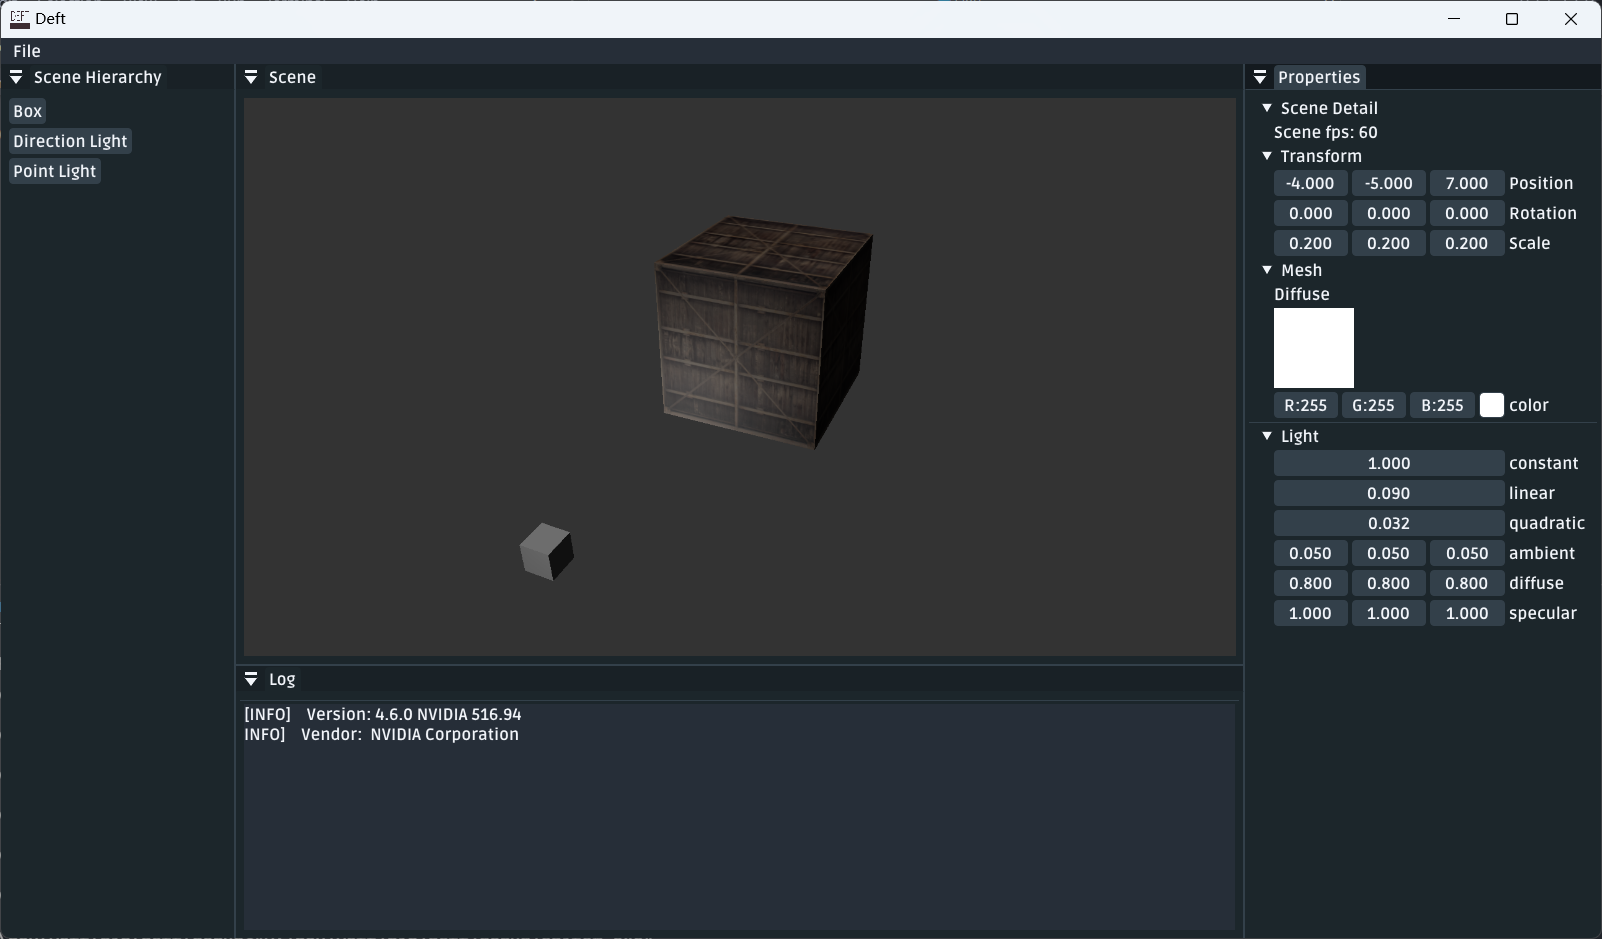
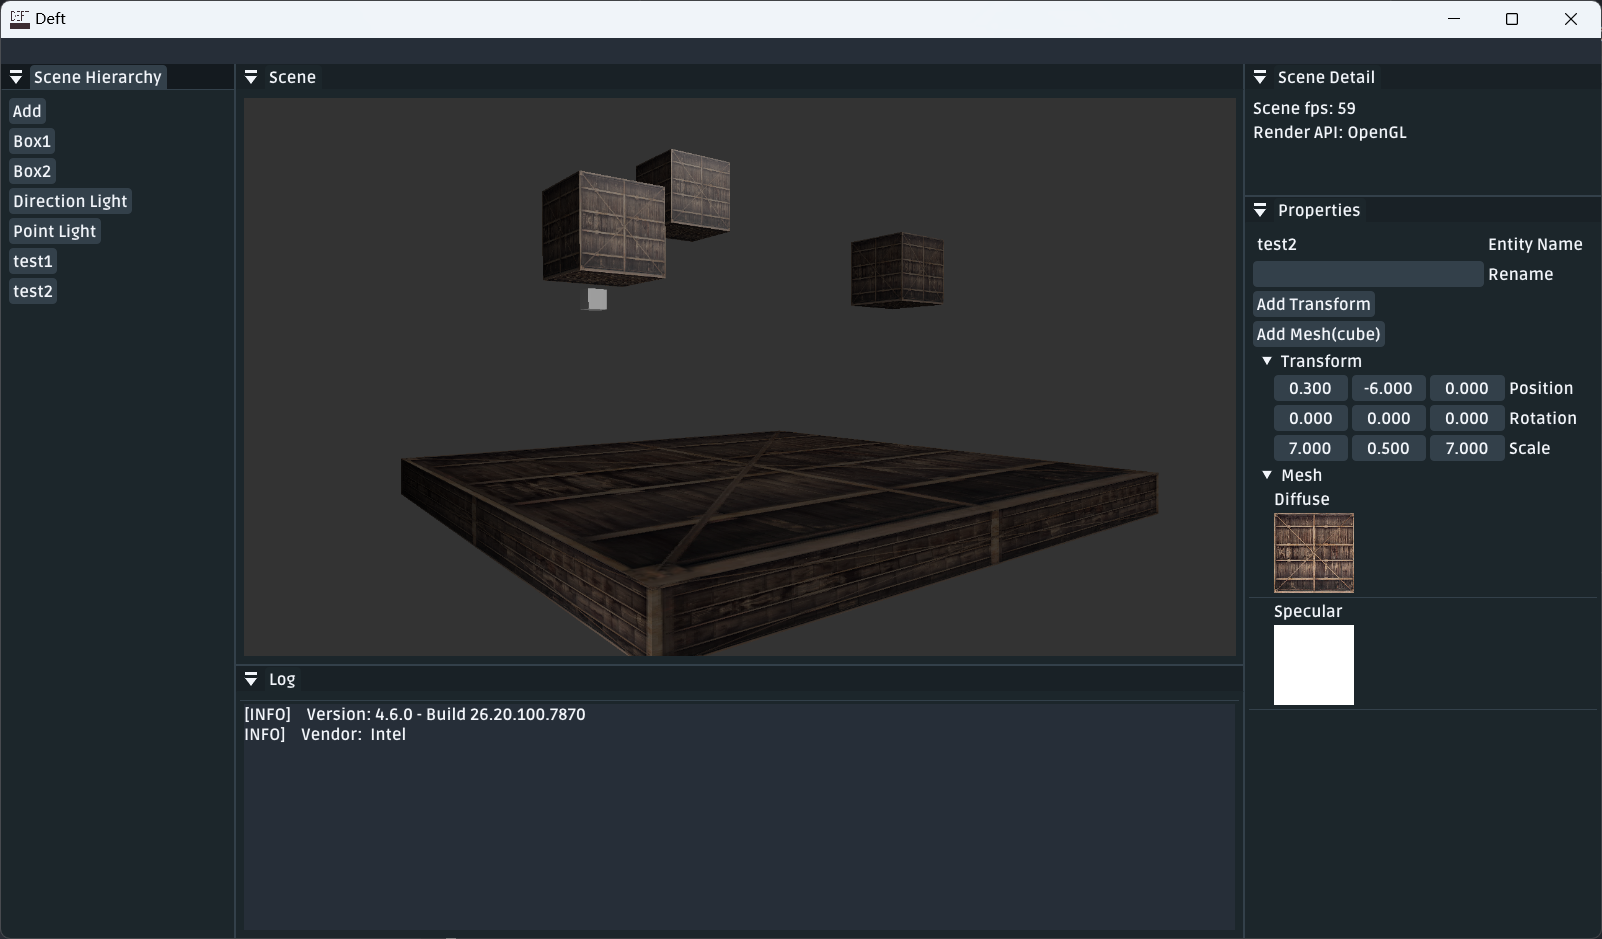
✨ feat(gui): 通过按钮添加实体及其组件

diff --git a/source/editor/gui/properties_panel.cpp b/source/editor/gui/properties_panel.cpp
@@ -11,27 +11,47 @@ void PropertiesPanel::update(
   ImGui::Begin("Properties");
 
   if (hierarchyPanel->haveSelectedEntity()) {
-    Entity* entity = hierarchyPanel->getSelectedEntity();
+    Entity entity = hierarchyPanel->getSelectedEntity();
 
-    ImGui::LabelText("Entity Name", entity->getName().c_str());
+    ImGui::LabelText("Entity Name", entity.getName().c_str());
 
     char buf[128] = "";
     if (ImGui::InputText("Rename", buf, 128)) {
       std::string newName = std::string(buf, strlen(buf));
-      entity->setName(newName);
+      entity.setName(newName);
     }
 
-    // if (ImGui::Button("Add Component")) {
-    // }
+    if (ImGui::Button("Add Transform")) {
+      if (!entity.haveComponent<TransformComponent>()) {
+        entity.addComponent(TransformComponent());
+      }
+    }
+    if (ImGui::Button("Add Mesh(cube)")) {
+      if (!entity.haveComponent<MeshComponent>()) {
+        if (!entity.haveComponent<TransformComponent>()) {
+          entity.addComponent(TransformComponent());
+        }
+        MeshComponent meshComponent;
+        meshComponent.mesh = Mesh::Cube();
+        meshComponent.mesh->addTexture(
+            TextureType::Diffuse,
+            Texture::Create("assets/texture/container.jpg"));
+        unsigned int color   = 0xffffffff;
+        auto         texture = Texture::Create(1, 1);
+        texture->setData(&color, sizeof(color));
+        meshComponent.mesh->addTexture(TextureType::Specular, texture);
+        entity.addComponent(meshComponent);
+      }
+    }
 
     // 显示位置信息
-    showTransform(*entity);
+    showTransform(entity);
 
     // 显示材质信息
-    showMesh(*entity);
+    showMesh(entity);
 
     // 显示光照信息
-    showLight(*entity);
+    showLight(entity);
   }
   ImGui::End();
 }

diff --git a/source/editor/gui/hierarchy_panel.cpp b/source/editor/gui/hierarchy_panel.cpp
@@ -1,5 +1,7 @@
 #include "gui/hierarchy_panel.h"
 
+#include <imgui_internal.h>
+
 namespace deft {
 
 HierarchyPanel::HierarchyPanel(Registry* registry) : _registry(registry) {}
@@ -15,14 +17,14 @@ void HierarchyPanel::update() {
   for (auto& entity : _registry->getEntiesUsed()) {
     if (ImGui::Button(entity.getName().c_str())) {
       _selected       = true;
-      _selectedEntity = &entity;
+      _selectedEntity = entity;
     }
   }
 
   ImGui::End();
 }
 
-Entity* HierarchyPanel::getSelectedEntity() { return _selectedEntity; }
+Entity HierarchyPanel::getSelectedEntity() { return _selectedEntity; }
 
 bool HierarchyPanel::haveSelectedEntity() { return _selected; }
 

diff --git a/source/editor/gui/hierarchy_panel.h b/source/editor/gui/hierarchy_panel.h
@@ -12,11 +12,11 @@ class HierarchyPanel {
 
   void update();
 
-  Entity* getSelectedEntity();
-  bool    haveSelectedEntity();
+  Entity getSelectedEntity();
+  bool   haveSelectedEntity();
 
  private:
-  Entity*   _selectedEntity;
+  Entity    _selectedEntity;
   Registry* _registry;
   bool      _selected = false;
 };

diff --git a/source/deft/ecs/components/transform.h b/source/deft/ecs/components/transform.h
@@ -10,7 +10,7 @@ class TransformComponent : public Component {
  public:
   math::Vector3 position;
   math::Vector3 rotation;
-  math::Vector3 scale;
+  math::Vector3 scale{1.0f, 1.0f, 1.0f};
 
   TransformComponent() = default;
   TransformComponent(const math::Vector3& position_) : position(position_) {}
